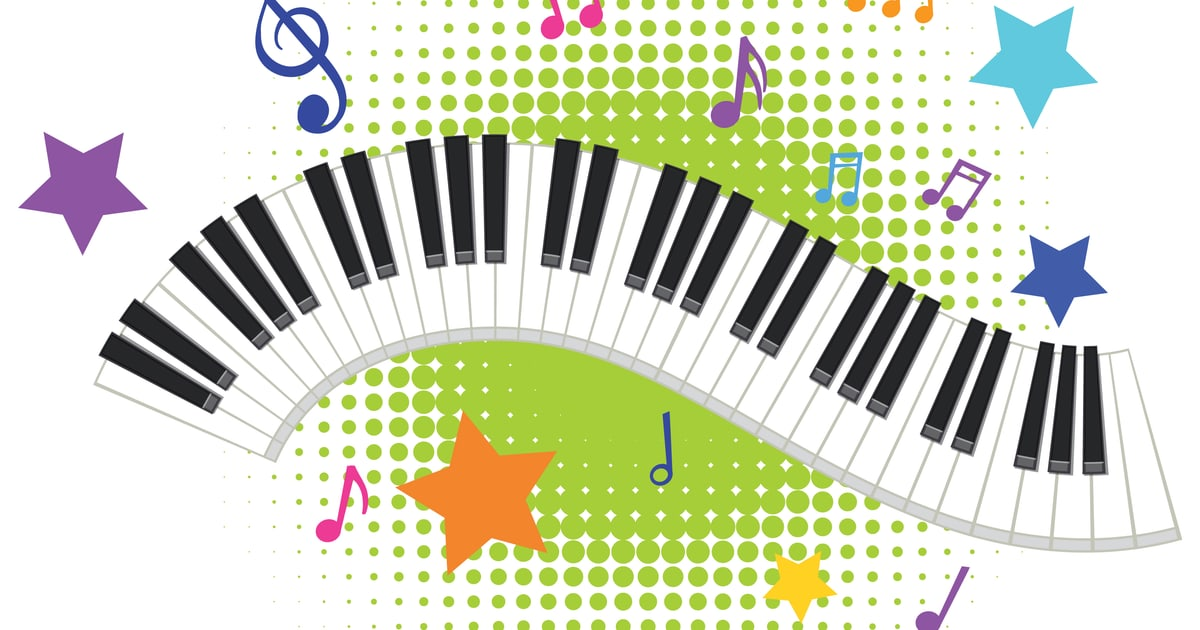
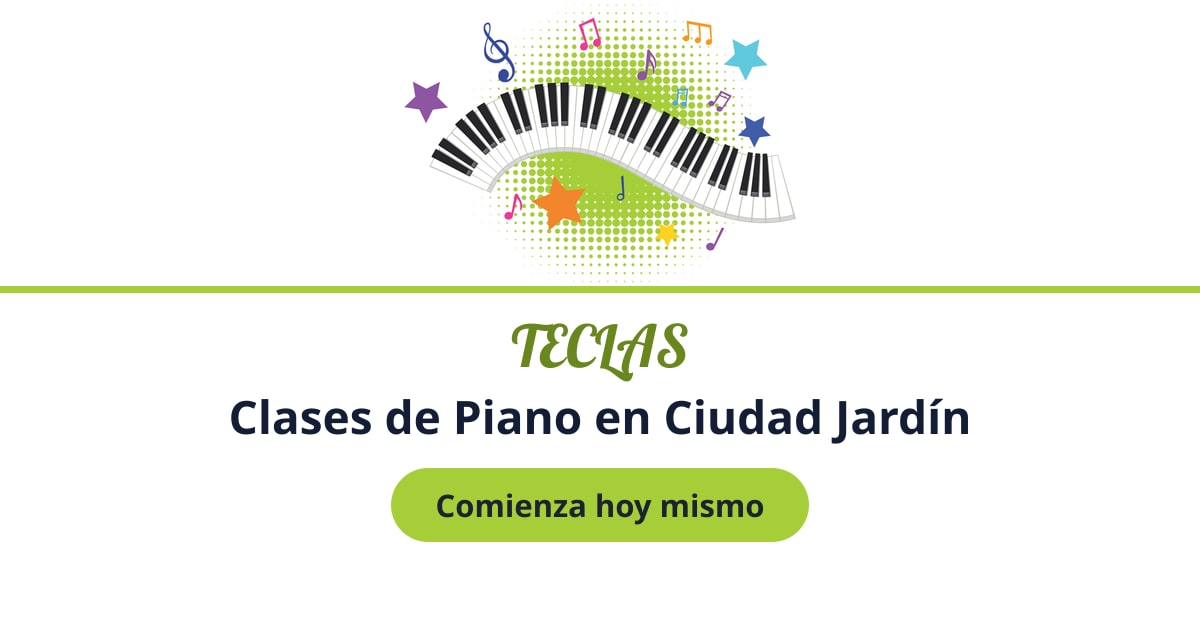
feat(seo): put a headline and CTA on the link-preview card
The preview image was the raw brand artwork: no words, so a share read as
wallpaper rather than as something to tap. The card now carries the
wordmark in Lobster — the face the navbar logo uses — the headline and
the green CTA pill, over the keyboard artwork given a clean band of its
own at the top.

Both strings already exist on the site: the hero's H1 and the hero
button's label. No new marketing copy, per CLAUDE.md.

Adds scripts/make-og-image.js so the card can be rebuilt rather than
being an asset nobody can reproduce. It fails loudly if the output ever
crosses the 300 KB that makes WhatsApp drop the image. Currently 55 KB,
down from 116 KB.

diff --git a/scripts/make-og-image.js b/scripts/make-og-image.js
@@ -1,0 +1,93 @@
+/**
+ * Rebuilds public/og-teclas.jpg — the link-preview card used by every page.
+ *
+ *   node scripts/make-og-image.js
+ *
+ * Why a generated card rather than the raw artwork:
+ *
+ * - public/teclas.jpg is 5768x4094 and 3.4 MB. WhatsApp drops any og:image
+ *   over roughly 300 KB, so a link shared there rendered with no picture.
+ * - A preview with no words is wallpaper. The card carries the headline and
+ *   the call to action so it reads as something to tap.
+ *
+ * Every string below already exists on the site — the hero's H1 and the hero
+ * button's label — so the card invents no new copy (see CLAUDE.md).
+ *
+ * Fonts: the wordmark is Lobster, the same face the navbar logo uses. It has
+ * to be installed for fontconfig to find it; next/font keeps only a subsetted
+ * woff2 in .next, which librsvg cannot read. To regenerate on a machine
+ * without it, install Lobster (and any bold grotesque for the headline — Noto
+ * Sans here) and re-run. If the wordmark comes out in a fallback face, that is
+ * the missing font, not a bug in this script.
+ */
+const path = require('path');
+const sharp = require('sharp');
+
+const ROOT = path.join(__dirname, '..');
+const W = 1200;
+const H = 630;
+const ART_H = 286;
+
+// Brand tokens, straight from styles/_tokens.scss.
+const GREEN = '#a5ce39';
+const GREEN_DEEP = '#6a861f';
+const INK = '#141d36';
+const NEAR_BLACK = '#1c2230';
+
+const WORDMARK = 'TECLAS';
+const HEADLINE = 'Clases de Piano en Ciudad Jardín';
+const CTA = 'Comienza hoy mismo';
+
+// Advance-width sum for the CTA at its rendered size, so the pill hugs the
+// label instead of being a guess. Measured off the same face the SVG asks for.
+const CTA_WIDTH = 330;
+const PILL_H = 74;
+const PILL_W = CTA_WIDTH + 88;
+const PILL_X = (W - PILL_W) / 2;
+const PILL_Y = 468;
+
+const overlay = `
+<svg xmlns="http://www.w3.org/2000/svg" width="${W}" height="${H}">
+  <rect x="0" y="${ART_H}" width="${W}" height="${H - ART_H}" fill="#ffffff"/>
+  <rect x="0" y="${ART_H}" width="${W}" height="7" fill="${GREEN}"/>
+
+  <text x="${W / 2}" y="367" text-anchor="middle"
+        font-family="Lobster" font-size="58" fill="${GREEN_DEEP}">${WORDMARK}</text>
+
+  <text x="${W / 2}" y="434" text-anchor="middle"
+        font-family="Noto Sans" font-weight="700" font-size="46" fill="${INK}">${HEADLINE}</text>
+
+  <rect x="${PILL_X}" y="${PILL_Y}" width="${PILL_W}" height="${PILL_H}"
+        rx="${PILL_H / 2}" fill="${GREEN}"/>
+  <text x="${W / 2}" y="${PILL_Y + 49}" text-anchor="middle"
+        font-family="Noto Sans" font-weight="700" font-size="31" fill="${NEAR_BLACK}">${CTA}</text>
+</svg>`;
+
+(async () => {
+  // The whole keyboard fitted inside the top band rather than cropped to it:
+  // covering the full card and laying a translucent panel over the bottom left
+  // the keyboard cut in half and ghosting through behind the headline.
+  const art = await sharp(path.join(ROOT, 'public/teclas.jpg'))
+    .resize(W, ART_H, { fit: 'contain', background: '#ffffff' })
+    .png()
+    .toBuffer();
+
+  const base = await sharp({
+    create: { width: W, height: H, channels: 3, background: '#ffffff' },
+  })
+    .composite([{ input: art, top: 0, left: 0 }])
+    .png()
+    .toBuffer();
+
+  const out = path.join(ROOT, 'public/og-teclas.jpg');
+  const { size } = await sharp(base)
+    .composite([{ input: Buffer.from(overlay), top: 0, left: 0 }])
+    .jpeg({ quality: 88, mozjpeg: true, progressive: true })
+    .toFile(out);
+
+  console.log(`wrote ${out} — ${(size / 1024).toFixed(0)} KB`);
+  if (size > 300 * 1024) {
+    console.error('WARNING: over 300 KB, WhatsApp will not render it');
+    process.exitCode = 1;
+  }
+})();
